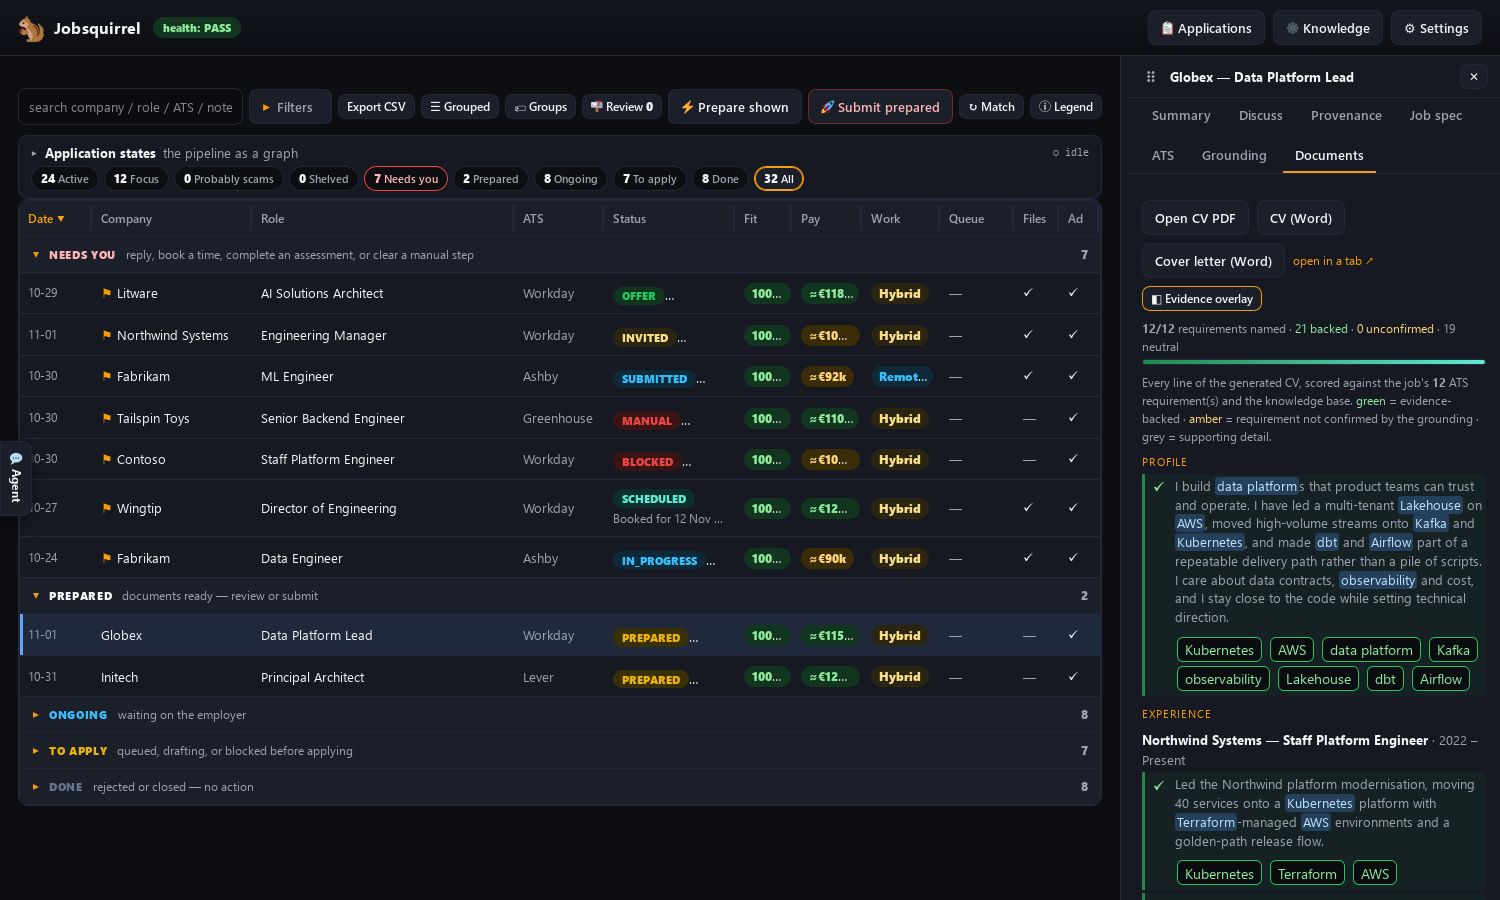
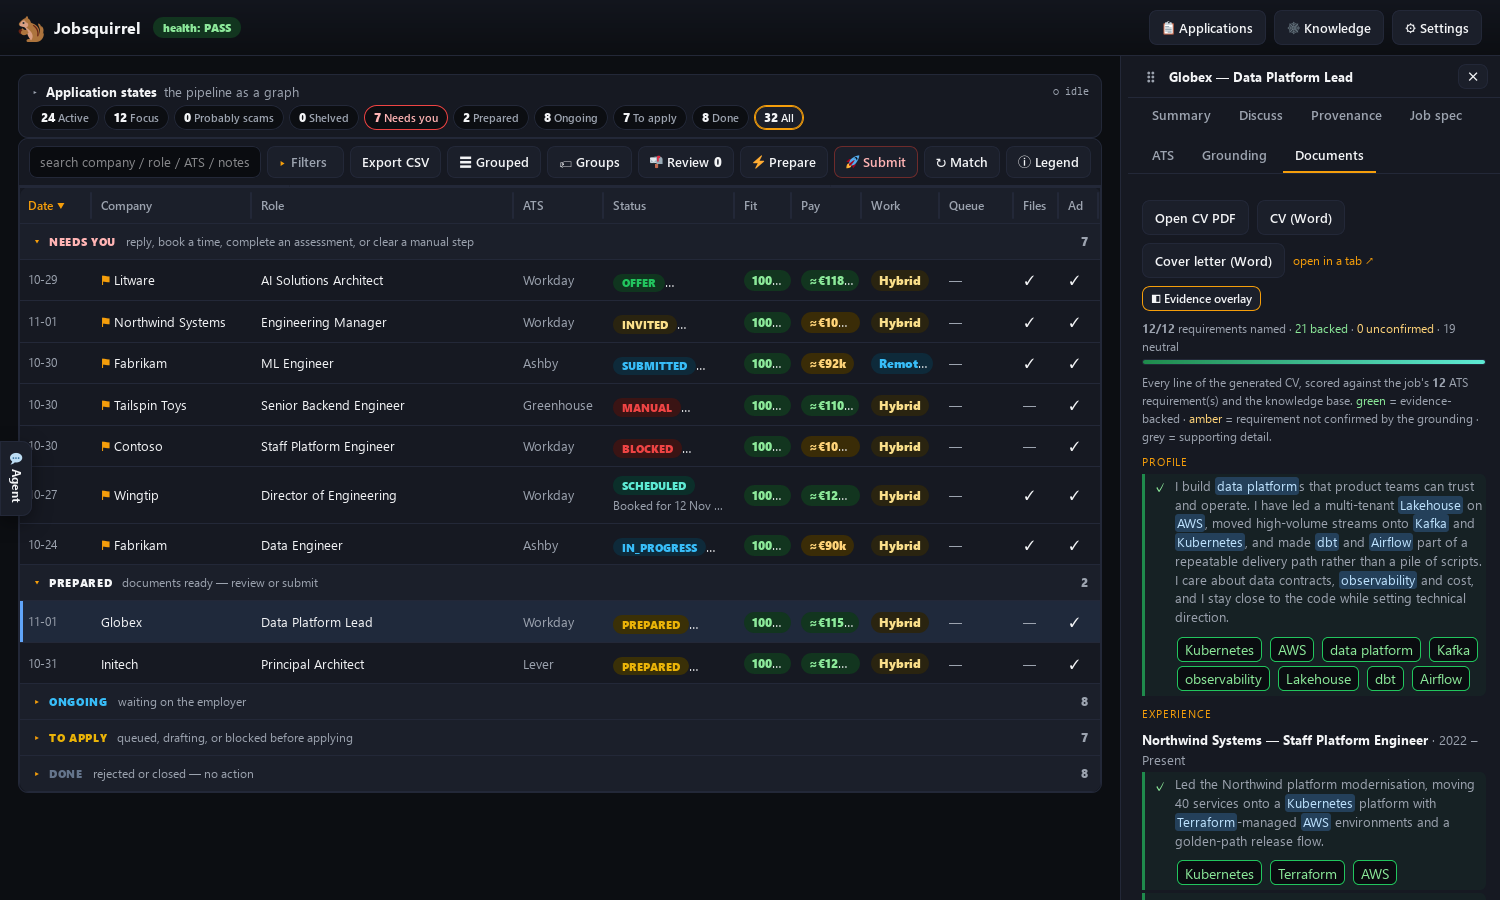
Make the grid action bar part of the grid and confirm every action
- The grid, its search/filter controls and its action buttons are one
  bordered card; the action bar sits directly above the table.
- All grid toolbar buttons now share the same height, padding and font size.
  'Prepare shown' is 'Prepare' and 'Submit prepared' is 'Submit'.
- Prepare, Submit and Match show a plain-language confirmation dialog with
  the scope and effect before running; the drawer's Recompute match too.
- Refresh the affected screenshots and the product/using-it docs.

diff --git a/tools/web/app.js b/tools/web/app.js
@@ -148,9 +148,12 @@ async function busyBtn(el, label, fn) {              // visible "working" state 
   $('#live').textContent = '● ' + (label || 'working') + ' …';
   try { return await fn(); } finally { if (el) { el.disabled = false; el.textContent = orig; } }
 }
-function warn(text) {
+function warn(text, title, okLabel, risky = true) {
   return new Promise(res => {
+    const h = $('#warn-title'); if (h) h.textContent = title || 'Confirm action';
     $('#warn-text').innerHTML = md(text);
+    const ok = $('#warn-ok');
+    if (ok) { ok.textContent = okLabel || 'Continue'; ok.classList.toggle('risky', risky !== false); }
     $('#warn').classList.remove('hide');
     $('#warn-ok').onclick = () => { $('#warn').classList.add('hide'); res(true); };
     $('#warn-cancel').onclick = () => { $('#warn').classList.add('hide'); res(false); };
@@ -162,7 +165,7 @@ const LONG = {
     '- It runs in the background — press **⏹ Stop** in the Activity monitor to cancel.\n\nStart the rebuild?',
   update: 'An incremental graph update only processes the new/changed sources, so it is usually much faster ' +
     'than a rebuild — but it still calls the LLM and can take several minutes. Continue?',
-  prepareMany: (n) => `Generating documents for **${n}** roles runs the agent once per role, so it can take ` +
+  prepareMany: (n) => `Generating documents for the **${n}** roles currently shown (expanded groups) runs the agent once per role, so it can take ` +
     `a while and use API tokens.\n\n- Roughly a few minutes **per role**.\n- Nothing is submitted.\n` +
     `- You can **⏹ Stop** it from the Activity monitor.\n\nContinue?`,
   prepareOne: 'Generating documents for one role runs the agent for a few minutes (GraphRAG + CV + letter + gates). ' +
@@ -1069,7 +1072,8 @@ const App = {
   },
   prepareRoles: async (keys) => {
     const n = (keys || []).length;
-    if (n && !await warn(n > 1 ? LONG.prepareMany(n) : LONG.prepareOne)) return;
+    if (n && !await warn(n > 1 ? LONG.prepareMany(n) : LONG.prepareOne,
+      'Prepare documents', 'Prepare', false)) return;
     starting('preparing documents', keys);
     const d = await api('/api/prepare', { keys });
     toast(d.error ? d.error : `preparing ${n} role(s) in the background — watch Activity`, !!d.error);
@@ -1077,28 +1081,43 @@ const App = {
   },
   prepareThis: (key) => App.prepareRoles([key]),
   prepareShown: () => App.prepareRoles(VISIBLE),
-  submitRoles: async (keys) => {
+  submitRoles: async (keys, scope = '') => {
     const n = (keys || []).length;
     if (!n) { toast('no prepared rows to submit — prepare them first', true); return; }
-    if (!await approve(`Submit ${n} prepared application(s) — this SENDS them through the employer's site and is irreversible.`,
+    const where = scope ? ` from ${scope}` : '';
+    if (!await approve(`Submit ${n} prepared application(s)${where} — this SENDS them through the employer's site and is irreversible.`,
       `POST /api/submit { "keys": [${n} role key(s)], "approval_token": "APPROVE_RUN_QUEUE" }`)) return;
     starting('submitting applications', keys);
     const d = await api('/api/submit', { keys, approval_token: 'APPROVE_RUN_QUEUE' });
     toast(d.error ? d.error : `submitting ${n} application(s) in the background — watch Activity`, !!d.error);
     if (!d.error) { openDock(true); App.showActivity(); } else { PENDING.clear(); LIVE_RUNNING = false; liveTick(); }
   },
-  submitThis: (key) => App.submitRoles([key]),
-  submitPrepared: () => App.submitRoles(GRID.filter(r => r.status === 'PREPARED' && VIEW.includes(r.key)).map(r => r.key)),
-  matchShown: async (el) => busyBtn(el, '⏳ recomputing match…', async () => {
-    const d = await api('/api/match/recompute', { keys: VIEW });
-    toast(d.error ? d.error : 'match recomputed for the rows shown', !!d.error);
-    if (!d.error) loadGrid();
-  }),
-  matchThis: async (key, el) => busyBtn(el, '⏳ recomputing…', async () => {
-    const d = await api('/api/match/recompute', { keys: [key] });
-    toast(d.error ? d.error : 'match recomputed', !!d.error);
-    if (!d.error) { await loadGrid(); if (CUR) openDetail(CUR); }
-  }),
+  submitThis: (key) => App.submitRoles([key], 'this role'),
+  submitPrepared: () => App.submitRoles(GRID.filter(r => r.status === 'PREPARED' && VIEW.includes(r.key)).map(r => r.key), 'the current view'),
+  matchShown: async (el) => {
+    const n = (VIEW || []).length;
+    if (!n) { toast('no rows in this view', true); return; }
+    const ok = await warn(
+      `Recompute the CV–job fit for the **${n}** row${n === 1 ? '' : 's'} currently shown.\n\n` +
+      `- Instant: no agent, no model tokens.\n- Updates the **Fit** column for this view.\n\nContinue?`,
+      'Recompute match', 'Recompute', false);
+    if (!ok) return;
+    await busyBtn(el, '⏳ recomputing match…', async () => {
+      const d = await api('/api/match/recompute', { keys: VIEW });
+      toast(d.error ? d.error : 'match recomputed for the rows shown', !!d.error);
+      if (!d.error) loadGrid();
+    });
+  },
+  matchThis: async (key, el) => {
+    const ok = await warn('Recompute the CV–job fit for this role.\n\n- Instant: no agent, no model tokens.\n- Updates the **Fit** column.\n\nContinue?',
+      'Recompute match', 'Recompute', false);
+    if (!ok) return;
+    await busyBtn(el, '⏳ recomputing…', async () => {
+      const d = await api('/api/match/recompute', { keys: [key] });
+      toast(d.error ? d.error : 'match recomputed', !!d.error);
+      if (!d.error) { await loadGrid(); if (CUR) openDetail(CUR); }
+    });
+  },
   stop: async () => { const d = await api('/api/action/stop', {}); toast(d.ok || d.error, !!d.error); },
   togglePause: async (on) => { const d = await api('/api/action/pause', { on }); toast(d.ok || d.error, !!d.error); },
   queueAct: async (action, company, role) => {
@@ -1134,13 +1153,13 @@ const App = {
     if (!d.error) { openDetail(CUR); loadGrid(); }
   },
   updateKB: async () => {
-    if (!await warn(LONG.update)) return;
+    if (!await warn(LONG.update, 'This may take a while', 'Start update')) return;
     starting('updating the knowledge graph');
     const d = await api('/api/action/run', { command: 'kb_update', approval_token: '' });
     toast(d.ok || d.error, !!d.error); if (!d.error) { openDock(true); App.showActivity(); } else { LIVE_RUNNING = false; liveTick(); }
   },
   rebuildKB: async () => {
-    if (!await warn(LONG.rebuild)) return;
+    if (!await warn(LONG.rebuild, 'This may take a while', 'Start rebuild')) return;
     starting('rebuilding the knowledge graph');
     const d = await api('/api/kb/rebuild', {}); toast(d.ok || d.error, !!d.error); if (!d.error) openDock(true); else { LIVE_RUNNING = false; $('#peras').classList.add('hide'); }
   },

diff --git a/tools/web/index.html b/tools/web/index.html
@@ -23,7 +23,23 @@
     <div class="edge" data-edge="top"><div class="edge-panels" data-edge="top"></div><div class="splitter edge-split" data-edge="top" title="Drag to resize"></div></div>
     <div class="scroll">
       <main>
-        <div class="toolbar">
+        <details id="sg" class="stategraph">
+          <summary>
+            <span class="sg-headline"><b>Application states</b> <span class="muted">the pipeline as a graph</span></span>
+            <span class="sg-live">
+              <span class="livestrip" id="live"><span class="muted">idle — no run active</span></span>
+              <button id="live-log" class="small hide" title="Show the live log of the running task">📜 Live log</button>
+              <span id="runctl" class="runctl hide">
+                <button id="btn-pause" title="Finish the current task, then start nothing new">⏸ Pause</button>
+                <button id="btn-stop" class="risky" title="Stop now: no new tasks, terminate the in-flight work">⏹ Stop</button>
+              </span>
+            </span>
+            <span class="metrics" id="metrics"></span>
+          </summary>
+          <div id="sg-body" class="sg-body"></div>
+        </details>
+        <div class="gridcard">
+        <div class="toolbar grid-toolbar">
           <input id="q" placeholder="search company / role / ATS / notes…" style="flex:1;max-width:300px">
           <details id="filters" class="filters">
             <summary>Filters <span id="filt-n" class="muted"></span></summary>
@@ -67,30 +83,15 @@
               <button id="fclear" class="small" type="button">Clear filters</button>
             </div>
           </details>
-          <button id="export" class="small">Export CSV</button>
-          <button id="grouping" class="small" title="Group rows by bucket (default) or show one flat sorted list — clicking a column header switches to the flat view">☰ Grouped</button>
-          <button id="groups" class="small" title="Create, rename or delete groups (campaigns)">🏷 Groups</button>
-          <button id="a-gmail-review" class="small" title="Emails that could not be confidently classified or matched; review and mark Done">📬 Review <b id="review-count">0</b></button>
-          <button id="a-prepare-shown" title="Generate documents for the rows in this view (expanded groups) — runs the agent per role, a few minutes each; nothing is submitted">⚡ Prepare shown</button>
-          <button id="a-submit-shown" class="risky" title="Submit the PREPARED rows in this view, with the documents already generated — sends applications; needs approval">🚀 Submit prepared</button>
-          <button id="a-match" class="small" title="Recompute CV–job match for the rows in this view — instant (no agent)">↻ Match</button>
-          <button id="legend" class="small" title="What the columns, marks and statuses mean">ⓘ Legend</button>
+          <button id="export">Export CSV</button>
+          <button id="grouping" title="Group rows by bucket (default) or show one flat sorted list — clicking a column header switches to the flat view">☰ Grouped</button>
+          <button id="groups" title="Create, rename or delete groups (campaigns)">🏷 Groups</button>
+          <button id="a-gmail-review" title="Emails that could not be confidently classified or matched; review and mark Done">📬 Review <b id="review-count">0</b></button>
+          <button id="a-prepare-shown" title="Generate documents for the rows currently shown (expanded groups) — runs the agent per role, a few minutes each; nothing is submitted. You will be asked to confirm.">⚡ Prepare</button>
+          <button id="a-submit-shown" class="risky" title="Submit the PREPARED rows currently shown, with the documents already generated — sends applications. You will be asked to confirm.">🚀 Submit</button>
+          <button id="a-match" title="Recompute CV–job match for the rows currently shown — instant (no agent). You will be asked to confirm.">↻ Match</button>
+          <button id="legend" title="What the columns, marks and statuses mean">ⓘ Legend</button>
         </div>
-        <details id="sg" class="stategraph">
-          <summary>
-            <span class="sg-headline"><b>Application states</b> <span class="muted">the pipeline as a graph</span></span>
-            <span class="sg-live">
-              <span class="livestrip" id="live"><span class="muted">idle — no run active</span></span>
-              <button id="live-log" class="small hide" title="Show the live log of the running task">📜 Live log</button>
-              <span id="runctl" class="runctl hide">
-                <button id="btn-pause" title="Finish the current task, then start nothing new">⏸ Pause</button>
-                <button id="btn-stop" class="risky" title="Stop now: no new tasks, terminate the in-flight work">⏹ Stop</button>
-              </span>
-            </span>
-            <span class="metrics" id="metrics"></span>
-          </summary>
-          <div id="sg-body" class="sg-body"></div>
-        </details>
         <div class="gridwrap">
           <table id="grid">
         <thead><tr>
@@ -108,6 +109,7 @@
         </tr></thead>
             <tbody id="rows"></tbody>
           </table>
+        </div>
         </div>
       </main>
     </div>
@@ -314,10 +316,10 @@
 </div></div>
 
 <div id="warn" class="modal hide"><div class="modal-box">
-  <h2 style="text-transform:none;letter-spacing:0;color:var(--fg)">This may take a while</h2>
+  <h2 id="warn-title" style="text-transform:none;letter-spacing:0;color:var(--fg)">Confirm action</h2>
   <div id="warn-text" class="md muted"></div>
   <div class="row" style="justify-content:flex-end;margin-top:16px">
-    <button id="warn-cancel">Cancel</button><button id="warn-ok" class="risky">Start anyway</button></div>
+    <button id="warn-cancel">Cancel</button><button id="warn-ok" class="risky">Continue</button></div>
 </div></div>
 
 <div id="approve" class="modal hide"><div class="modal-box">

diff --git a/tools/web/app.css b/tools/web/app.css
@@ -322,6 +322,12 @@ tr.grp .grp-n .countlink:hover{color:var(--accent)}
 .livestrip{flex:0 1 auto;min-width:0;max-width:360px;color:var(--muted);font-family:var(--mono);font-size:11px;white-space:nowrap;overflow:hidden;text-overflow:ellipsis}
 .runctl{display:flex;gap:6px;flex:0 0 auto}
 .toolbar{display:flex;gap:6px;align-items:center;margin:14px 0 10px;flex-wrap:wrap}
+.gridcard{border:1px solid var(--line);border-radius:var(--radius);background:var(--surface)}
+.gridcard>.gridwrap{border:0;border-top:1px solid var(--line);border-radius:0 0 var(--radius) var(--radius)}
+.grid-toolbar{margin:0;padding:7px 10px;background:var(--surface);border-bottom:1px solid var(--line);border-radius:var(--radius) var(--radius) 0 0}
+.grid-toolbar button,.grid-toolbar .filters>summary{height:32px;padding:0 11px;font-size:13px;display:inline-flex;align-items:center;gap:5px;white-space:nowrap}
+.grid-toolbar button.small{height:32px;padding:0 11px;font-size:13px}
+.grid-toolbar input{height:32px;min-height:32px}
 .gridwrap{overflow-x:auto;border:1px solid var(--line);border-radius:var(--radius)}
 /* the grid shrinks with the pane but never wraps: fixed layout + ellipsis */
 #grid{table-layout:fixed}

diff --git a/docs/PRODUCT-SPEC.md b/docs/PRODUCT-SPEC.md
@@ -198,16 +198,20 @@ same record is never duplicated across separate pages.
   the full check list, version and instance details) · three destinations: **📋 Applications**,
   **🕸 Knowledge** and **⚙ Settings**. Version, build/update status, logs and the
   About/credits live in Settings. The broad Prepare / Run Submissions actions are
-  not in the header; the grid toolbar has scoped **Prepare shown** and **Submit prepared**, and
+  not in the header; the grid card's action bar has scoped **Prepare** and **Submit**, and
   a `PREPARED` row's drawer has **Submit this application**.
-- **Toolbar:** search (company/role/ATS), status filter, queue filter, **Export CSV**,
-  **⚡ Prepare shown** (generate documents, review-only), **🚀 Submit prepared** (gated),
-  **📬 Review** (Gmail review queue and its triage filter) and **↻ Match** (recompute) for the rows shown.
+- **Grid card:** the grid, its search/filter/view controls and its actions are one bordered
+  card. The action bar sits directly above the table (not floating at the top of the page) with
+  consistently sized buttons: **Export CSV**, **☰ Grouped**, **🏷 Groups**, **📬 Review**,
+  **⚡ Prepare** (generate documents for the rows currently shown; review-only),
+  **🚀 Submit** (submit the prepared rows in this view; approval-gated), **↻ Match** (recompute
+  fit) and **ⓘ Legend**. Prepare, Submit and Match each show a plain-language confirmation
+  dialog with the scope and effect before they run.
 - **Application states header:** the section carries the bucket filter chips
   (**Active · Focus · Probably scams · Shelved · Needs you · Prepared · Ongoing · To apply · Done · All**)
   with live counts, plus the live-tail line (`/api/live`) and the run controls. Click a chip to filter the
   grid to that bucket; the active chip is highlighted. There is no separate metric strip, and the section
-  sits directly above the grid.
+  sits directly above the grid card.
 - **Process control:** while a run is active the Application states header shows **⏸ Pause** (workers
   finish the current task then wait) and **⏹ Stop** (no new tasks; terminate the in-flight action).
   Backend: `POST /api/action/pause` + `/api/action/stop` (`state/queue.pause` / `state/queue.stop`).

diff --git a/docs/USING-IT.md b/docs/USING-IT.md
@@ -28,7 +28,7 @@ built-in procedures:
 | *"What's in the queue?"* | shows pending rows and the order they'll run |
 | *"Prepare documents for the top 5, don't send"* | `REVIEW=1 … run_queue.sh`: builds + gates, records `PREPARED` |
 | *"Show me only contract roles"* | the toolbar's **any type** filter (full-time / part-time / contract / consultant / freelance / internship / temporary / unknown); set a row's type in its drawer |
-| *"Submit the prepared ones"* | *🚀 Submit prepared* (grid) or *Submit this application* (drawer): reuses the already-gated CV/letter and applies — two-step confirmation (`APPROVE_RUN_QUEUE`) |
+| *"Submit the prepared ones"* | *🚀 Submit* (grid) or *Submit this application* (drawer): reuses the already-gated CV/letter and applies — two-step confirmation (`APPROVE_RUN_QUEUE`) |
 | *"Run the pipeline"* / *"Apply to the queue"* | `PARALLEL=3 bash tools/run_queue.sh`, most senior first |
 | *"Use one fixed CV for these"* | `LIGHT=1 FIXED_CV=<path> … run_queue.sh` |
 | *"Apply to just this one: <url>"* | the per-role manual procedure (`AGENTS.md` §4) |
@@ -102,8 +102,9 @@ Everything is observable. Useful things to ask for, or run yourself:
     credits). Clicking the **health** pill in the header opens About and scrolls to the checks.
     Every field saves on change; there are no save buttons.
   - The header has three destinations: **Applications**, **Knowledge** and **Settings**. The
-    page-level actions are scoped to the grid: **Prepare shown** (REVIEW=1, no submits),
-    **Submit prepared** and **Review**. A `PREPARED` row's drawer has **Submit this application**.
+    page-level actions live in the grid card's action bar: **Prepare** (REVIEW=1, no submits),
+    **Submit** and **Review**. Prepare, Submit and Match each show a confirmation dialog with
+    the scope and effect before they run. A `PREPARED` row's drawer has **Submit this application**.
     Submitting uses the documents already generated — no re-generation — and needs a two-step
     confirmation (`APPROVE_RUN_QUEUE`). Every action needs the per-session token (anti-CSRF) and
     the UI binds to `127.0.0.1` only; the chat agent inherits the same approval gates — it cannot

diff --git a/AGENTS.md b/AGENTS.md
@@ -226,7 +226,7 @@ LIGHT=1 FIXED_CV=documents/archetypes/<Prefix>_CV_<Archetype>.docx PARALLEL=3 ba
 **E. One role, manually**: follow §4 (for a single URL or a retry).
 
 **F. Submit what's already prepared** (reuse the gated CV/letter, no re-generation)
-The dashboard's **🚀 Submit prepared** (grid) / **Submit this application** (a `PREPARED`
+The dashboard's **🚀 Submit** (grid) / **Submit this application** (a `PREPARED`
 row's drawer) build a scoped queue and run `run_queue.sh` in **submit-prepared mode**
 (`PREPARED=1`) over just those rows: no GraphRAG, no CV/letter generation, no alignment
 gate — only the pre-submit gate (to re-stamp the receipt) and then the browser apply.
